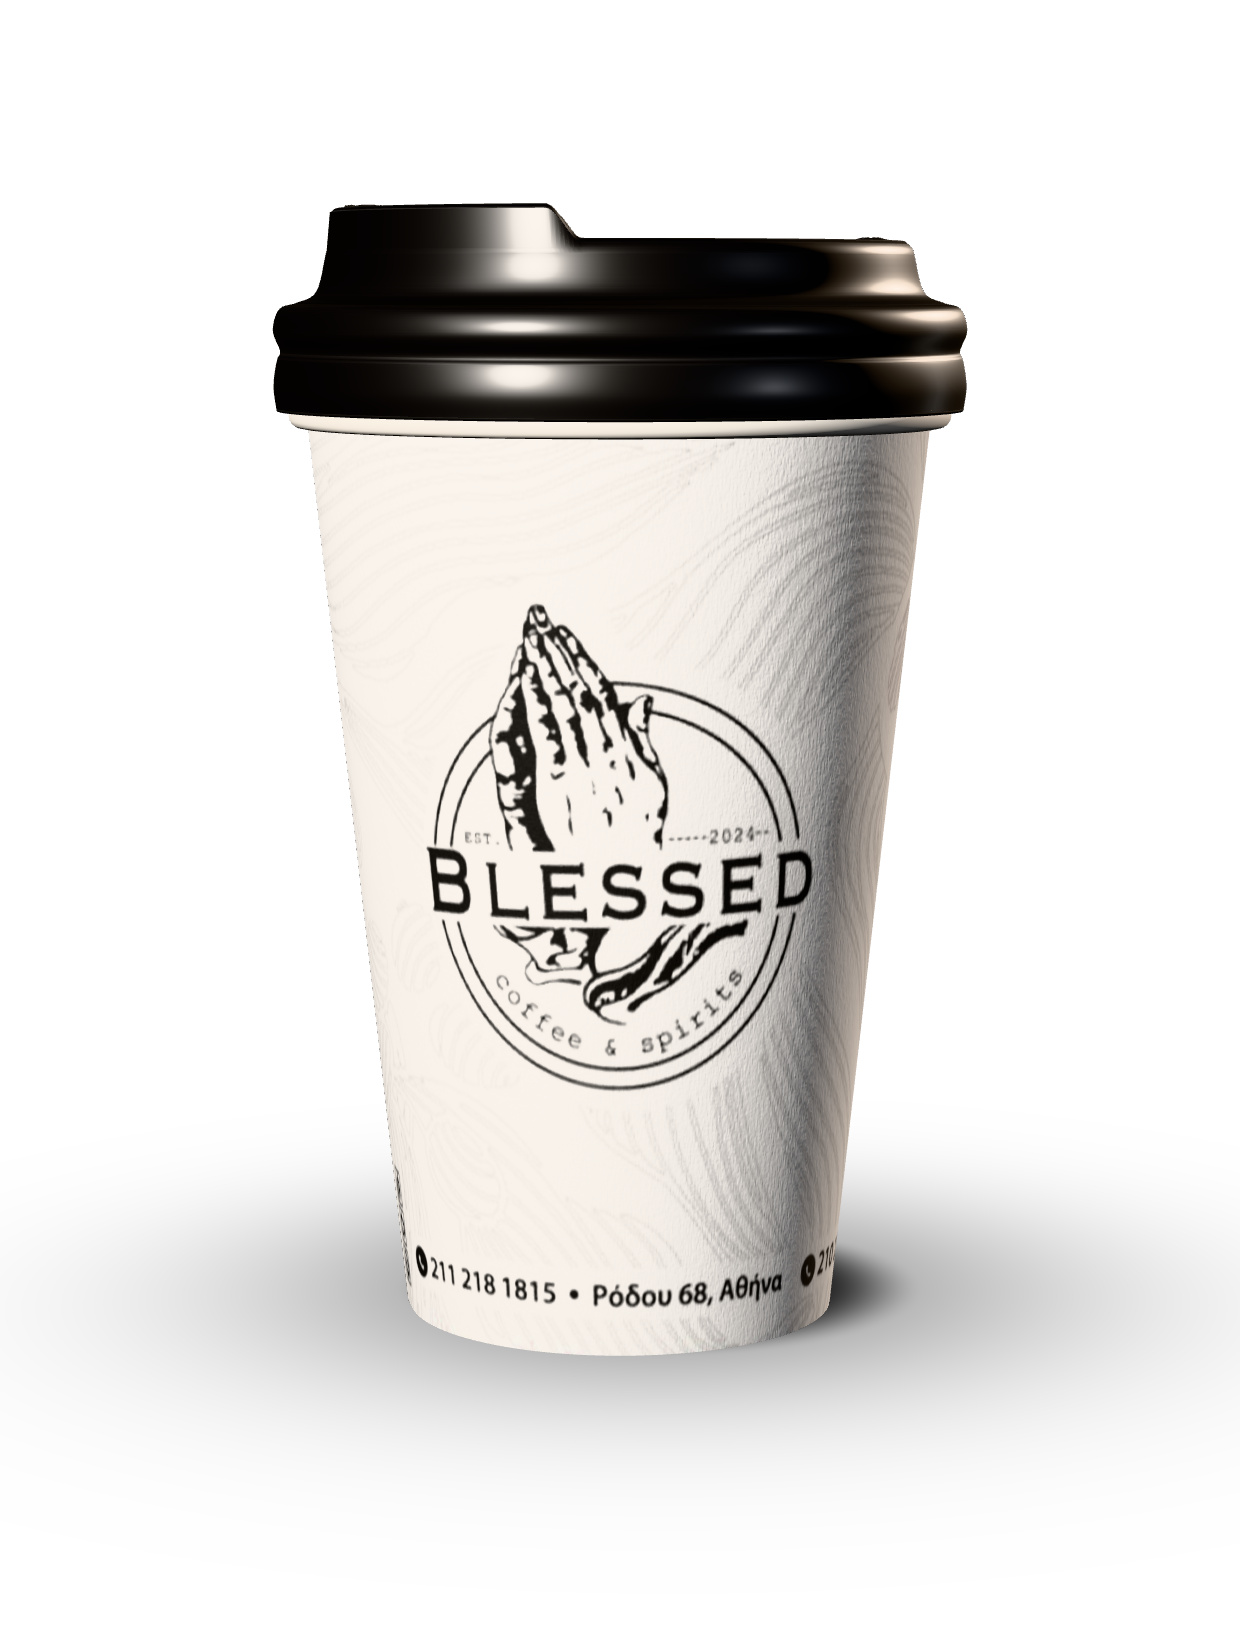
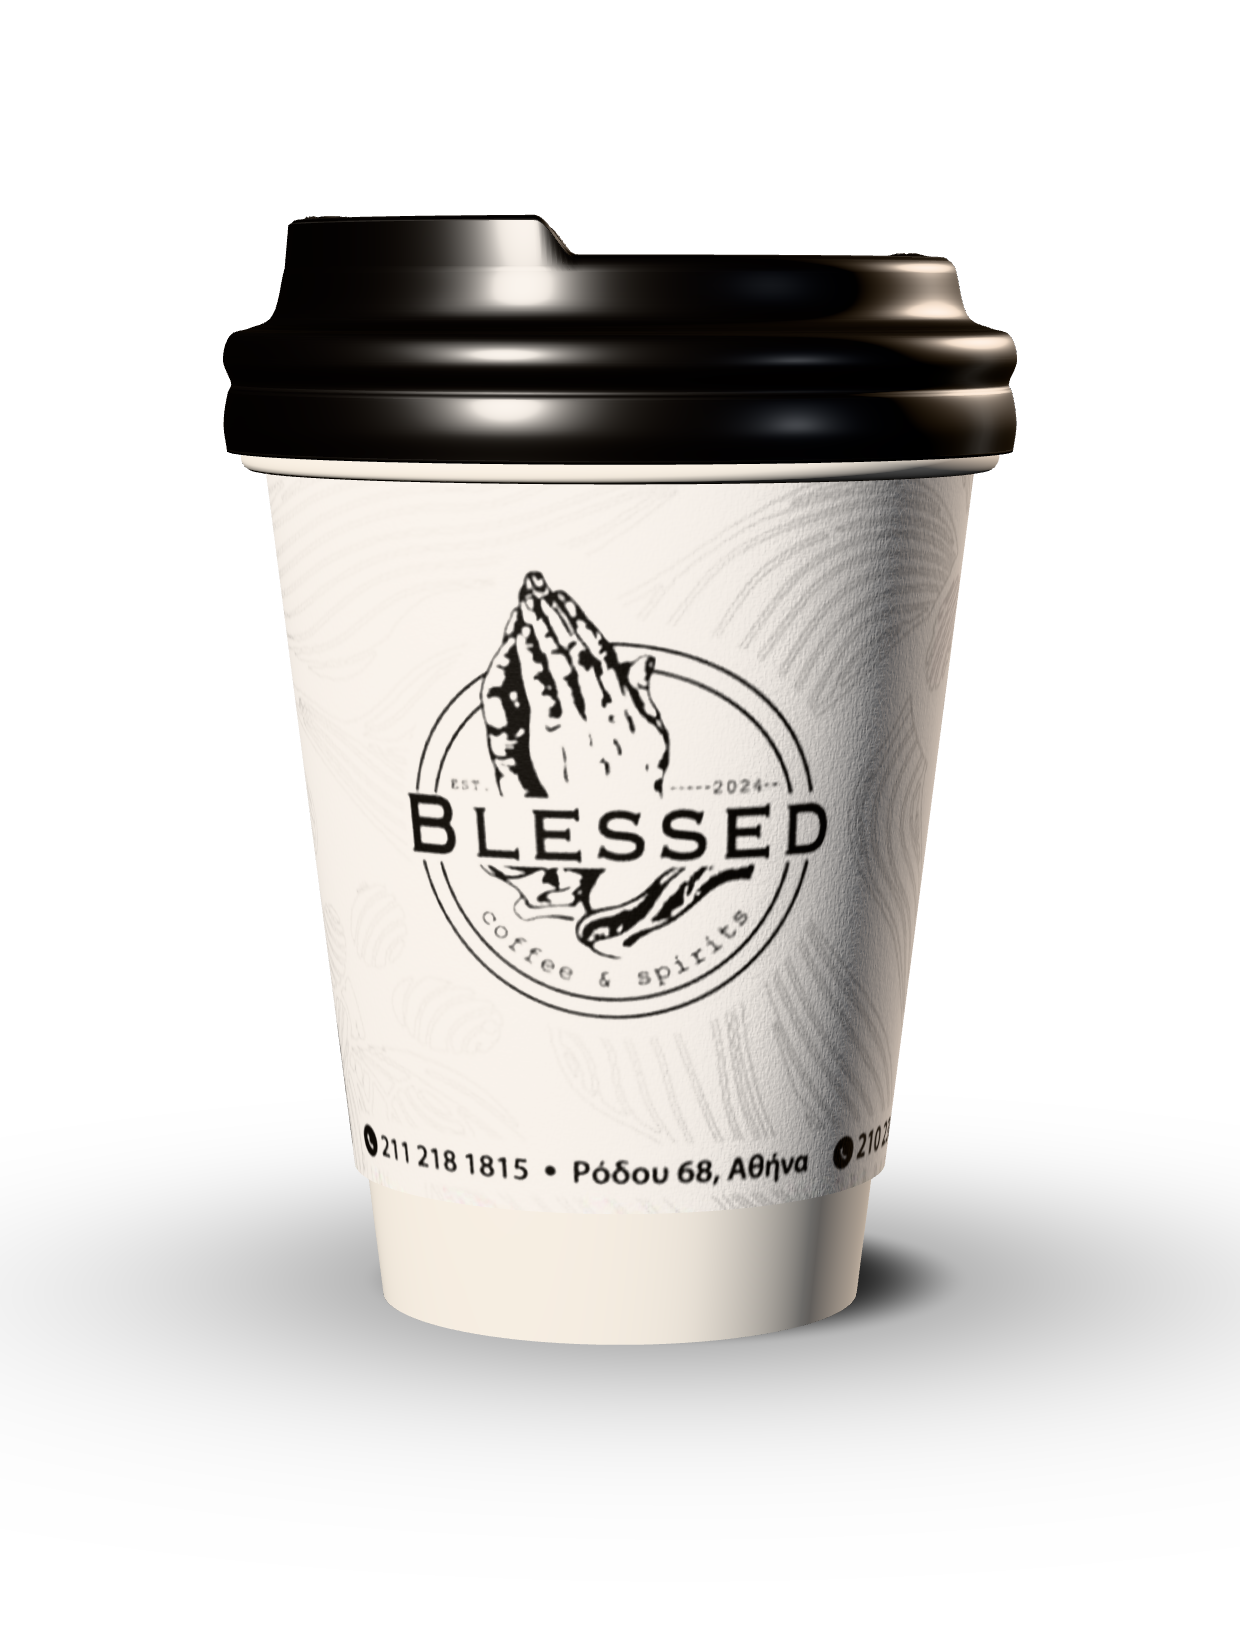
feat(cup): switch 3D cup to 12oz with the plain base ring under the sleeve
Label unwrapped from the 12oz die-line; sleeve stops at the 6mm fold, the stiffer
unprinted base cup shows below it, 1.5mm narrower. Height 109mm, same 90mm lid.
Site camera and social shot framings rescaled to the shorter cup.

Changed region(s): [[0.1839, 0.1244, 0.8274, 0.8396]]

diff --git a/src/scripts/cup.js b/src/scripts/cup.js
@@ -1,13 +1,17 @@
-// The 16oz Blessed cup in 3D, wrapped in the printer's die-line (social/cup/dieline), restaged as a
+// The 12oz Blessed cup in 3D, wrapped in the printer's die-line (social/cup/dieline), restaged as a
 // studio product shot. Drag to turn it: momentum carries the flick and it settles on the nearest printed panel.
 import * as THREE from 'three';
 import { project, velocityTracker, springTo, prefersReducedMotion } from './spring.js';
 
 // Panel centres in turns (logo, slogan), measured off the unwrapped die-line (social/cup/dieline/unwrap.py).
-export const PANELS = [0, 0.474];
-const H = 132.8, RT = 45, RB = 31.2;
+export const PANELS = [0, 0.482];
+// 12oz: same 90mm lid as before, sleeve taper and height from the die-line.
+const H = 109, RT = 45, RB = 32;
+// Double wall: the printed sleeve ends FOLD mm up (its 6mm fold tucks inward there); below it the plain,
+// stiffer base cup shows as a ring GAP mm narrower.
+const FOLD = 17, GAP = 1.5, rAt = (y) => RB + ((RT - RB) * y) / H;
 // Label u for a cup turned t turns is 0.5 - t. The paper side seam goes where the die-line's edges meet.
-const SEAM_U = 0.2535;
+const SEAM_U = 0.24;
 
 // Paper grain as a tiling normal map: wrapped value noise, fibres a little longer than they are wide.
 function grain(N = 256) {
@@ -56,10 +60,10 @@ function wall() {
     cols.push([u, 0]);
   }
   const P = [], UV = [], idx = [];
-  for (const [u, lift] of cols) for (const y of [0, H]) {
-    const th = Math.PI + u * 2 * Math.PI, r = RB + ((RT - RB) * y) / H + lift;
+  for (const [u, lift] of cols) for (const y of [FOLD, H]) {
+    const th = Math.PI + u * 2 * Math.PI, r = rAt(y) + lift;
     P.push(r * Math.sin(th), y, r * Math.cos(th));
-    UV.push(u, y / H);
+    UV.push(u, (y - FOLD) / (H - FOLD));
   }
   for (let c = 0; c < cols.length - 1; c++) {
     const a = c * 2, b = a + 2;
@@ -123,13 +127,22 @@ function buildCup(label) {
     map: label, roughness: 0.74, normalMap: grain(), normalScale: new THREE.Vector2(0.18, 0.18),
   }));
   const paper = new THREE.MeshStandardMaterial({ color: 0xf1eee8, roughness: 0.62 });
-  const base = new THREE.Mesh(new THREE.CircleGeometry(RB, 64), paper);
+  const base = new THREE.Mesh(new THREE.CircleGeometry(RB - GAP, 64), paper);
   base.rotation.x = Math.PI / 2;
+  // Base cup below the sleeve: smoother, harder board, no print. Runs 2mm up under the sleeve.
+  const ring = new THREE.Mesh(
+    new THREE.CylinderGeometry(rAt(FOLD + 2) - GAP, RB - GAP, FOLD + 2, 128, 1, true).translate(0, (FOLD + 2) / 2, 0),
+    new THREE.MeshStandardMaterial({ color: 0xf5f3ee, roughness: 0.48 }),
+  );
+  // The sleeve's folded bottom edge, closing the gap between sleeve and base cup.
+  const fold = new THREE.Mesh(new THREE.RingGeometry(rAt(FOLD) - GAP, rAt(FOLD), 128), paper);
+  fold.rotation.x = Math.PI / 2;
+  fold.position.y = FOLD;
   // Rolled rim: the bead the lid snaps over, its lower half shows under the lid skirt.
   const lip = new THREE.Mesh(new THREE.TorusGeometry(RT + 1, 1.7, 16, 192), paper);
   lip.rotation.x = Math.PI / 2;
   lip.position.y = H - 1.7;
-  cup.add(body, base, lip, lid());
+  cup.add(body, ring, fold, base, lip, lid());
   return cup;
 }
 
@@ -230,9 +243,9 @@ export async function mount(canvas, labelUrl) {
   const { scene, tilt, cup, steam, vent } = await studioScene(renderer, labelUrl);
 
   // 'front' framing from shots.mjs, so the poster image and the live canvas line up.
-  const camera = new THREE.PerspectiveCamera(24, 620 / 820, 300, 900);
-  camera.position.set(0, 150, 560);
-  camera.lookAt(0, 72, 0);
+  const camera = new THREE.PerspectiveCamera(21, 620 / 820, 300, 900);
+  camera.position.set(0, 127, 560);
+  camera.lookAt(0, 61, 0);
 
   steam.quaternion.copy(camera.quaternion);
   steam.visible = !reduced;

diff --git a/social/cup/cup.html b/social/cup/cup.html
@@ -43,11 +43,11 @@ const camera = new THREE.PerspectiveCamera(24, innerWidth / innerHeight, 20, 300
 
 // Posed stills and reels (social/cup/shots.mjs, social/render-reels.mjs). Every field is optional;
 // anything left out falls back to the site's 'front' framing and studio light. rot is in turns:
-// 0 = logo panel, 0.474 = slogan panel. The paper seam sits at 0.2465: never hold a close-up there. shadow scales the contact shadow, steam is the steam's
+// 0 = logo panel, 0.482 = slogan panel. The paper seam sits at 0.26: never hold a close-up there. shadow scales the contact shadow, steam is the steam's
 // clock in seconds (left out: no steam).
 const D = { keyPos: key.position.toArray(), keyI: key.intensity, keyAngle: key.angle, rimI: rim.intensity, env: scene.environmentIntensity };
 const v3 = new THREE.Vector3();
-window.pose = ({ rot = 0, tilt: z = 0, lean = 0, lift = 0, cam = [0, 150, 560], look = [0, 72, 0], fov = 24,
+window.pose = ({ rot = 0, tilt: z = 0, lean = 0, lift = 0, cam = [0, 127, 560], look = [0, 61, 0], fov = 21,
                  keyPos = D.keyPos, keyI = D.keyI, keyAngle = D.keyAngle, rimI = D.rimI, env = D.env, exposure = 1,
                  shadow = 1, steam: st } = {}) => {
   tilt.rotation.set(lean, 0, z);

diff --git a/social/cup/dieline/unwrap.py b/social/cup/dieline/unwrap.py
@@ -1,21 +1,21 @@
-# Unwraps the printer's flat 16oz die-line (dieline/16oz.jpg, a phone screenshot of their proof) into the
+# Unwraps the printer's flat 12oz die-line (dieline/12oz.jpg, a phone screenshot of their proof) into the
 # rectangular label the 3D cup wraps (src/assets/cup-label.jpg): u runs once round the cup from the paper
 # seam, v from the bottom fold up to the rim. Measured off the screenshot: the arcs share a centre, the
-# side edges are radial at +-15.93 deg, the cut line's top arc is r 2176 and the bottom fold r 1645.
+# side edges are radial at -18.28 / +18.08 deg, the cut line's top arc is r 1900 and the bottom fold r 1480.
 #   python3 social/cup/dieline/unwrap.py [roll]   roll = turns to shift so the logo faces front
 import sys
 import numpy as np
 from PIL import Image
 
 HERE = __file__.rsplit('/', 1)[0]
-CX, CY = 659.53, 3200.02
-R_TOP, R_FOLD = 2170, 1650          # a few px inside the yellow cut line and the pink fold line
-TH_L = np.radians(-15.93 + 0.15)    # skip the yellow side edge
-TH_R = np.radians(15.93 - 0.86)     # last 7mm hide under the flap (32px at the rim)
+CX, CY = 682.83, 2946.11
+R_TOP, R_FOLD = 1894, 1485          # a few px inside the yellow cut line and the pink fold line
+TH_L = np.radians(-18.28 + 0.15)    # skip the yellow side edge
+TH_R = np.radians(18.08 - 0.94)     # last 7mm hide under the flap (31px at the rim)
 W, H, UP = 3072, 1024, 3
 roll = float(sys.argv[1]) if len(sys.argv) > 1 else 0
 
-src = Image.open(f'{HERE}/16oz.jpg').convert('RGB')
+src = Image.open(f'{HERE}/12oz.jpg').convert('RGB')
 src = np.asarray(src.resize((src.width * UP, src.height * UP), Image.LANCZOS)).astype(np.float32)
 u = (np.arange(W) + 0.5) / W
 v = (np.arange(H) + 0.5) / H
